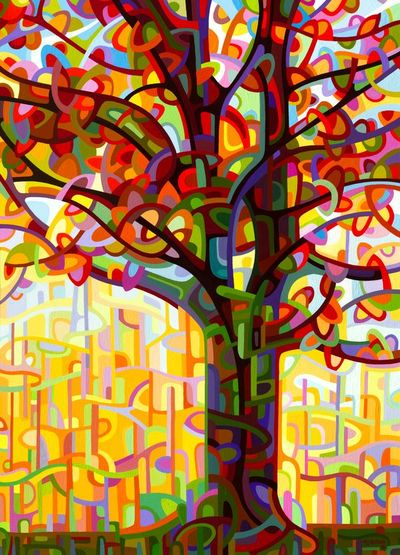
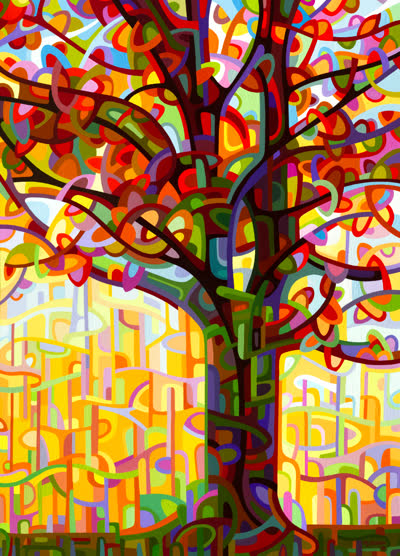
chore: web-optimize batch 4 2017-2019 (10 paintings) [v2.7.94]

diff --git a/html/2017-awakening.html b/html/2017-awakening.html
@@ -2,7 +2,7 @@
 <html lang="en">
 <head>
 <link rel="stylesheet" href="../css/style.css">
-<!-- ALP Design v2.7.93 | Detail Page | Generated: 2026-09-10 -->
+<!-- ALP Design v2.7.94 | Detail Page | Generated: 2026-09-10 -->
 <meta charset="UTF-8">
 <meta name="description" content="2017 Awakening () - The morning sun rises over the lake chasing the deep blues with peaches and pinks, reaching with warm tendrils into the corners of l...">
 <meta property="og:title" content="Awakening - Mandy Budan Art">

diff --git a/html/2017-almost-autumn.html b/html/2017-almost-autumn.html
@@ -2,7 +2,7 @@
 <html lang="en">
 <head>
 <link rel="stylesheet" href="../css/style.css">
-<!-- ALP Design v2.7.88 | Detail Page | Generated: 2026-09-10 -->
+<!-- ALP Design v2.7.94 | Detail Page | Generated: 2026-09-10 -->
 <meta charset="UTF-8">
 <meta name="description" content="2017 Almost Autumn () - The trees and grasses are starting to turn gold and orange, but the warm sun proves summer still spends her days here.">
 <meta property="og:title" content="Almost Autumn - Mandy Budan Art">

diff --git a/html/2017-celadon-morning.html b/html/2017-celadon-morning.html
@@ -2,7 +2,7 @@
 <html lang="en">
 <head>
 <link rel="stylesheet" href="../css/style.css">
-<!-- ALP Design v2.7.88 | Detail Page | Generated: 2026-09-10 -->
+<!-- ALP Design v2.7.94 | Detail Page | Generated: 2026-09-10 -->
 <meta charset="UTF-8">
 <meta name="description" content="2017 Celadon Morning () - A quiet morning walk with ribbons of pale green and blue falling amongst the flowers on the forest floor.">
 <meta property="og:title" content="Celadon Morning - Mandy Budan Art">

diff --git a/html/2019-the-emperor.html b/html/2019-the-emperor.html
@@ -2,7 +2,7 @@
 <html lang="en">
 <head>
 <link rel="stylesheet" href="../css/style.css">
-<!-- ALP Design v2.7.88 | Detail Page | Generated: 2026-09-10 -->
+<!-- ALP Design v2.7.94 | Detail Page | Generated: 2026-09-10 -->
 <meta charset="UTF-8">
 <meta name="description" content="2019 The Emperor () - The Emperor stands resplendent - his courtiers a heady mix of bronzes, vermilions, magentas and golds.">
 <meta property="og:title" content="The Emperor - Mandy Budan Art">

diff --git a/html/2019-falling.html b/html/2019-falling.html
@@ -2,7 +2,7 @@
 <html lang="en">
 <head>
 <link rel="stylesheet" href="../css/style.css">
-<!-- ALP Design v2.7.88 | Detail Page | Generated: 2026-09-10 -->
+<!-- ALP Design v2.7.94 | Detail Page | Generated: 2026-09-10 -->
 <meta charset="UTF-8">
 <meta name="description" content="2019 Falling () - An idyllic fall day - boisterous clouds and colorful trees are reflected in the September lake.">
 <meta property="og:title" content="Falling - Mandy Budan Art">

diff --git a/html/2019-heart-of-gold.html b/html/2019-heart-of-gold.html
@@ -2,7 +2,7 @@
 <html lang="en">
 <head>
 <link rel="stylesheet" href="../css/style.css">
-<!-- ALP Design v2.7.88 | Detail Page | Generated: 2026-09-10 -->
+<!-- ALP Design v2.7.94 | Detail Page | Generated: 2026-09-10 -->
 <meta charset="UTF-8">
 <meta name="description" content="2019 Heart Of Gold () - The summer forest contains pockets where the light dances in secret.">
 <meta property="og:title" content="Heart of Gold - Mandy Budan Art">

diff --git a/html/2018-beaming.html b/html/2018-beaming.html
@@ -2,7 +2,7 @@
 <html lang="en">
 <head>
 <link rel="stylesheet" href="../css/style.css">
-<!-- ALP Design v2.7.88 | Detail Page | Generated: 2026-09-10 -->
+<!-- ALP Design v2.7.94 | Detail Page | Generated: 2026-09-10 -->
 <meta charset="UTF-8">
 <meta name="description" content="2018 Beaming () - Shards of sunbeams intertwine with bright and dark leaves in a fall forest.">
 <meta property="og:title" content="Beaming - Mandy Budan Art">

diff --git a/html/2018-the-deep.html b/html/2018-the-deep.html
@@ -2,7 +2,7 @@
 <html lang="en">
 <head>
 <link rel="stylesheet" href="../css/style.css">
-<!-- ALP Design v2.7.88 | Detail Page | Generated: 2026-09-10 -->
+<!-- ALP Design v2.7.94 | Detail Page | Generated: 2026-09-10 -->
 <meta charset="UTF-8">
 <meta name="description" content="2018 The Deep () - The sun tries to reach the depths of the forest - impossibly far away.">
 <meta property="og:title" content="The Deep - Mandy Budan Art">

diff --git a/html/2017-along-the-river.html b/html/2017-along-the-river.html
@@ -2,7 +2,7 @@
 <html lang="en">
 <head>
 <link rel="stylesheet" href="../css/style.css">
-<!-- ALP Design v2.7.88 | Detail Page | Generated: 2026-09-10 -->
+<!-- ALP Design v2.7.94 | Detail Page | Generated: 2026-09-10 -->
 <meta charset="UTF-8">
 <meta name="description" content="2017 Along The River () - A lively tree sits by the river on a quiet summer day.">
 <meta property="og:title" content="Along the River - Mandy Budan Art">

diff --git a/html/2018-poolside.html b/html/2018-poolside.html
@@ -2,7 +2,7 @@
 <html lang="en">
 <head>
 <link rel="stylesheet" href="../css/style.css">
-<!-- ALP Design v2.7.88 | Detail Page | Generated: 2026-09-10 -->
+<!-- ALP Design v2.7.94 | Detail Page | Generated: 2026-09-10 -->
 <meta charset="UTF-8">
 <meta name="description" content="2018 Poolside () - A quiet forest pool playing hide and seek with the spring morning.">
 <meta property="og:title" content="Poolside - Mandy Budan Art">

diff --git a/html/2017-the-beacon.html b/html/2017-the-beacon.html
@@ -2,7 +2,7 @@
 <html lang="en">
 <head>
 <link rel="stylesheet" href="../css/style.css">
-<!-- ALP Design v2.7.88 | Detail Page | Generated: 2026-09-10 -->
+<!-- ALP Design v2.7.94 | Detail Page | Generated: 2026-09-10 -->
 <meta charset="UTF-8">
 <meta name="description" content="2017 The Beacon () - A fall maple burns brightly against the dark forest.">
 <meta property="og:title" content="The Beacon - Mandy Budan Art">

diff --git a/paintings.html b/paintings.html
@@ -1,5 +1,5 @@
 <!DOCTYPE html>
-<!-- ALP Design v2.7.93 | Paintings Page -->
+<!-- ALP Design v2.7.94 | Paintings Page -->
 <html lang="en">
 <head>
 <meta charset="UTF-8">
